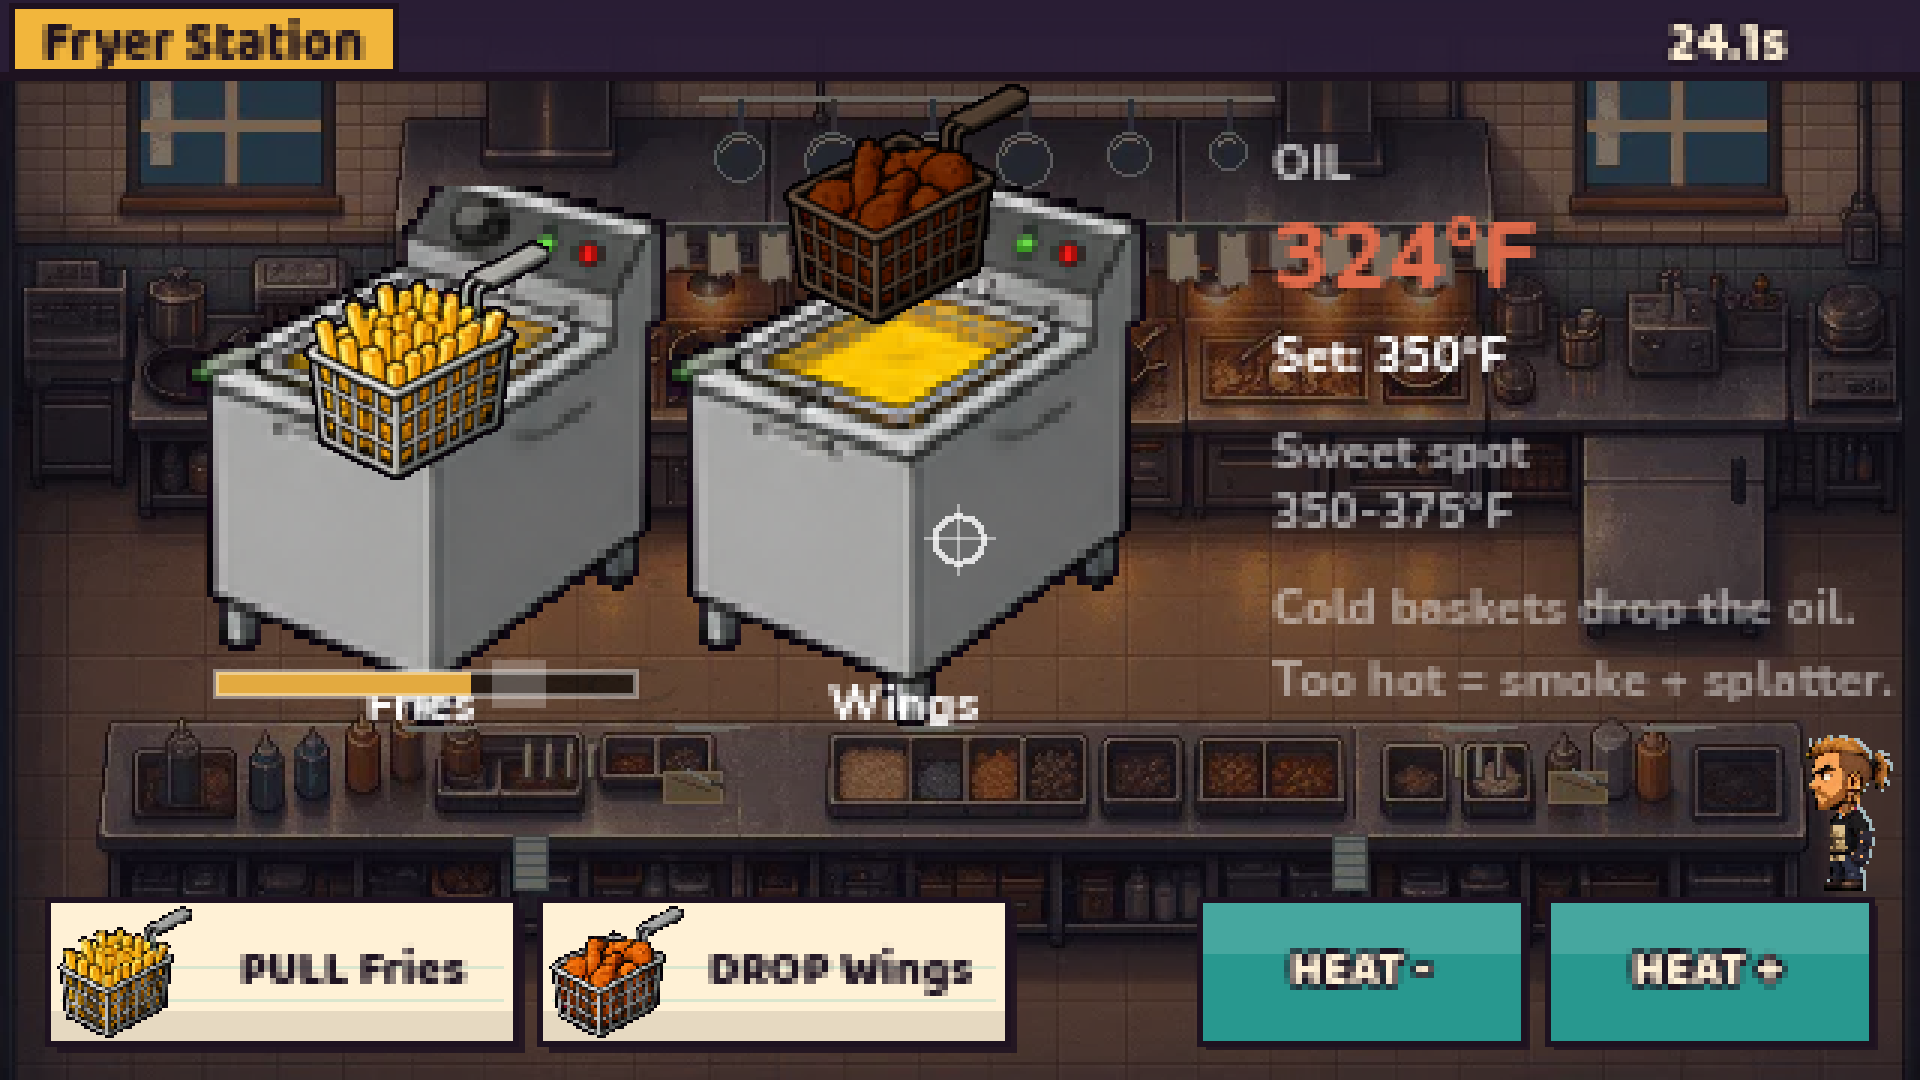
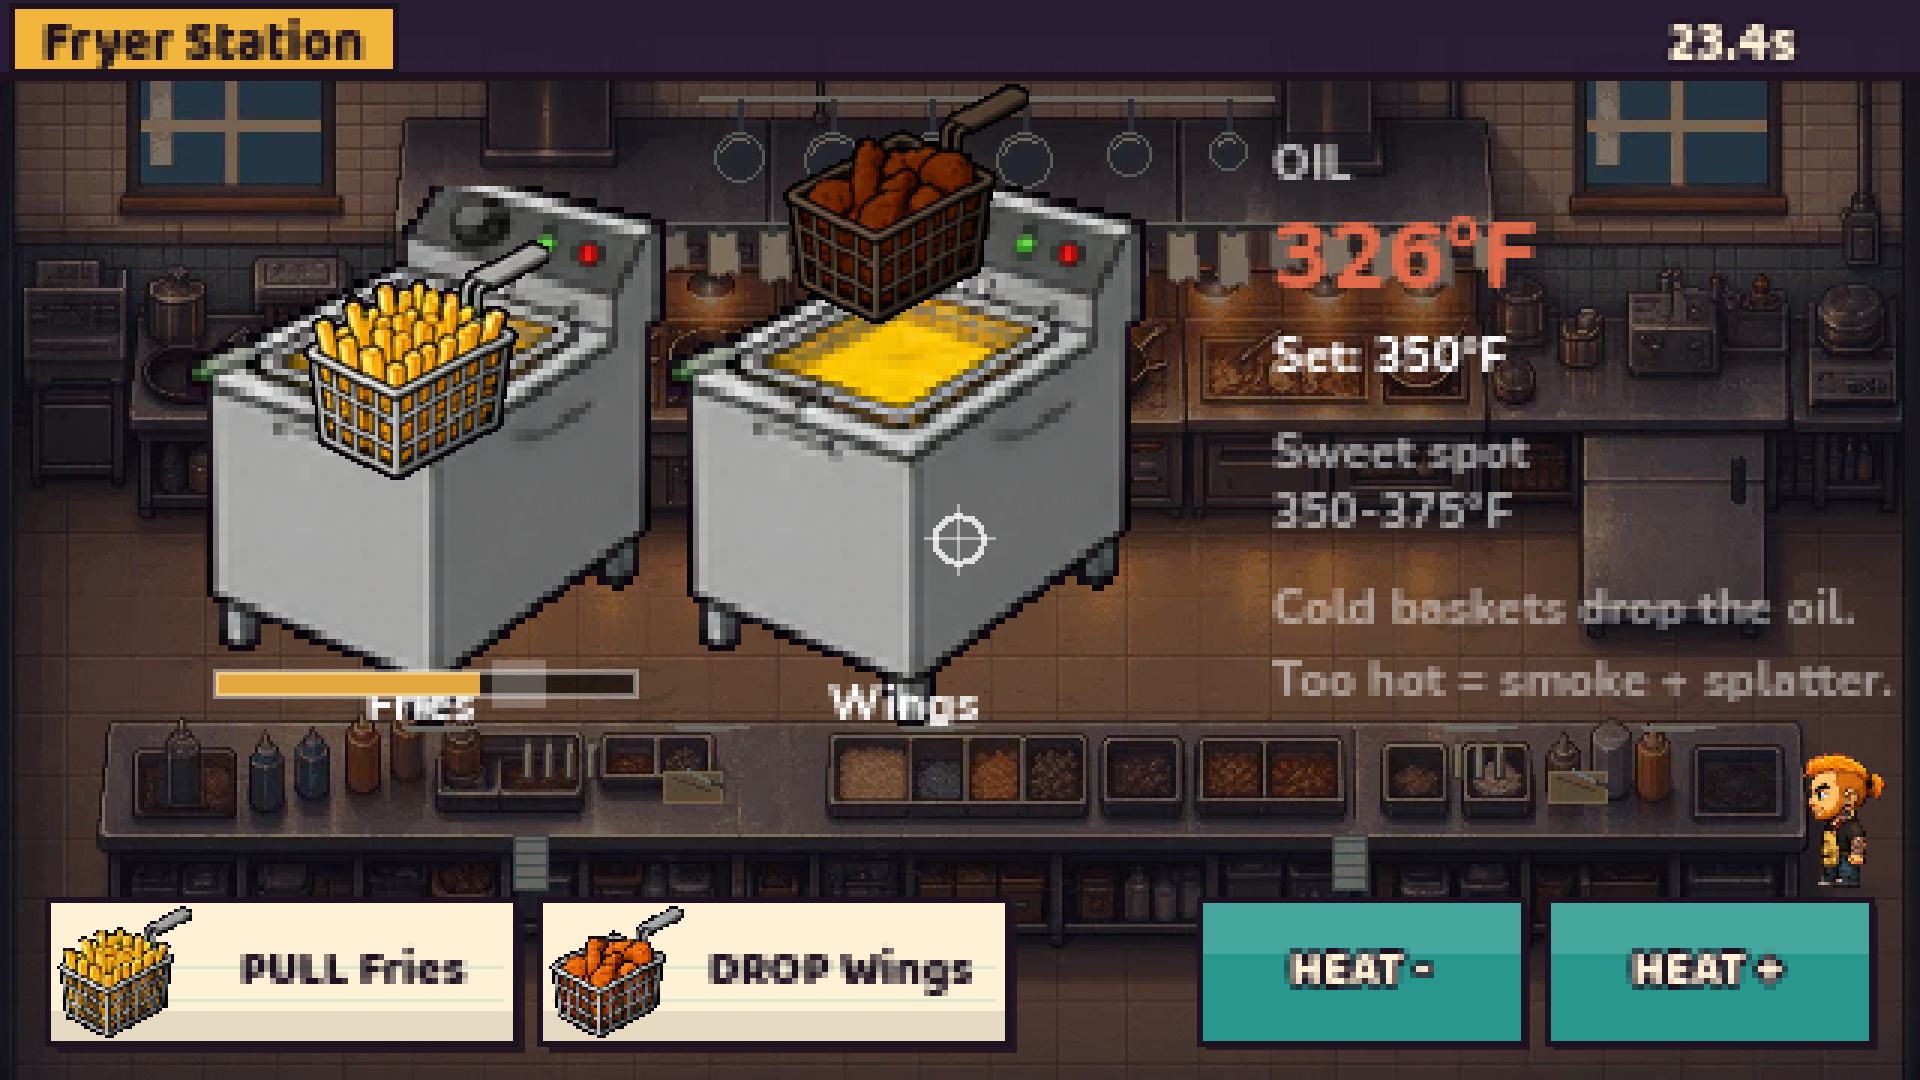
Ad kit refresh: HD Duff screens, itch copy for the public edition, portal review
- Screens 01, 08, 09 re-rendered on current main (HD Duff, new level panel spot)
- PAGE.md: public-edition note, 18 bosses, cold open + side quests, load line, tags (no pixel-art)
- PAGE_paste.txt: plain-text copy to paste from a phone
- LISTING.md: 18 bosses
- Keyboard boss fights: level panel sat on the boss bar's right end; it now sits above it
- docs/reviews/review_2026-11-14_portal_readiness.md

Claude-Session: https://claude.ai/code/session_01V3sbxMbLHiH7vLqaP49Jnr

Changed region(s): [[0.9375, 0.6722, 1.0, 0.825], [0.875, 0.0, 0.9375, 0.0611], [0.7188, 0.1833, 0.75, 0.275]]

diff --git a/docs/reviews/review_2026-11-14_portal_readiness.md b/docs/reviews/review_2026-11-14_portal_readiness.md
@@ -1,0 +1,78 @@
+# DuffQuest review, take four (Nov 14, 2026): portal readiness
+
+**Score: 8.3 / 10** (IGN v3 on Nov 11 was 7.9)
+
+How this was checked: current main (26aabed), `test_daily` ALL PASS, the ad shots re-rendered in the engine
+(town, street at night, fryer, home, gala), a scripted Gym Bro fight and a night walk recorded at 1080p with
+`tools/promo_shot`, and the copy read against the code. Nobody hand-played a 30-day run for this review; the 30-day
+soak covers that path.
+
+## What works
+
+- **The first ten seconds.** New game opens on a porch pirate jogging at Madison's package, and the line tells a
+  keyboard player "WASD or arrows to walk, Space to bonk". The rules come after the first win. On a portal, where a
+  player decides in under a minute, this is the most valuable change since v3.
+- **The street finally matches the fights.** v3's main complaint ("the street still looks like a board game") is
+  mostly gone: 13 storefronts and 17 street props painted at 4x, time-of-day light, painted fences. The Kwik-N-Go
+  corner at 10 AM and the same corner at 9:40 PM both read as one painted town.
+- **Duff looks like the cover now.** HD sheets, the casual tee off the line, the smug face. The in-game hero and the
+  cover portrait are finally the same guy.
+- **Boot.** Title in 9.3 s on throttled 4G (was 55 s two versions ago). New Game only waits for a 2.9 MB street pack.
+- **Depth for a free web game.** 18 bosses with their own arenas and comic-panel knockouts, four side quests with a
+  phone Notes journal, kitchen minigames, a 30-day calendar. Most portal games have one loop. This has five.
+- **The writing.** Still the reason to play. The humor audit cut 63 repeated jokes, which is the right direction.
+- **Portal plumbing.** Clean/gore-off defaults for portal players, fractional scaling that fills CrazyGames' iframe,
+  keyboard-first HUD placement, public-edition names everywhere, privacy policy, credits.
+
+## What's weak
+
+1. **The cast is half-migrated.** Duff is 2x HD; most of the people he talks to and fights are not. At the gala,
+   Lance (the landlord ex) is a chunky low-res sprite in a painted ballroom, standing in a screen we use for ads. Every
+   ad shot with an ex or a boss in it shows the seam. Finish the cast 2x pass for everyone in the ads (Gym Bro, the
+   four gala exes, the porch pirate) before paying for any promotion.
+2. **It's a slow game on a fast shelf.** CrazyGames players come for instant action. After the cold-open pirate, the
+   game is four lines of rules, then errands, a couch, a calendar. The fights are where the portal crowd lives, and
+   the next one is a few minutes away for a new player. Expect a steep drop after minute one. The fix is a second,
+   bigger fight inside the first five minutes (the porch-mystery thread or a street bounty pointed at day one).
+3. **Clean mode takes the edge off.** Portal players get clean language and no gore by default, and a lot of the
+   voice lives in the swearing and the teeth. The game is still funny clean, but it's a different, milder game. The
+   itch build keeps the uncut default; good.
+4. **The second wait.** Continue, the kitchen, arenas and the gala wait on world.pck (~23 s cold). On a portal the
+   first fight is covered by the street pack, but the first trip into the kitchen can hit a loading card mid-session.
+5. **No real-phone notes on file.** Duff and Brittany played it Nov 11 ("it's come a long way"), but their notes
+   aren't written down anywhere. They still outrank everything on this list.
+6. **AI art and itch.** itch's crowd is touchy about AI art. The disclosure is correct and required; don't tag it
+   `pixel-art`, and lead with the human story (one line cook, one phone, no computer) instead of the visuals.
+7. **No revenue path yet.** CrazyGames Basic Launch is a traffic test with no SDK; money starts at Full Launch with
+   the SDK and ads. GameDistribution waits on its gameId. itch is pay-what-you-want at best.
+
+## Bug found and fixed during this review
+
+- **Keyboard players: the level/heat panel covered the end of every boss's health bar.** The Nov 14 portal polish
+  tucked the panel into the bottom-right corner (`combat_ui.PANEL_R_KEYS`), which is where the boss bar ends. It
+  showed in the recorded Gym Bro take. During a boss fight the panel now sits just above the boss bar
+  (`PANEL_R_KEYS_BOSS`); touch layout unchanged.
+
+## What would most improve its chances
+
+1. **Write down Duff's and Brittany's playtest notes** and fix what they hit first.
+2. **Finish the 2x cast for everyone who appears in the ads**, then re-record the clips and the gala screen.
+3. **A second fight in the first five minutes**, so a portal player sees combat twice before the life-sim kicks in.
+4. **Submit to CrazyGames Basic Launch now** with the current zip; its numbers (time played, retention) tell you more
+   than any review. Add the SDK for Full Launch only if Basic Launch earns it.
+5. **Post the itch page** (`docs/itch/PAGE_paste.txt`) and lead socials with the true story: a line cook built a game
+   about his rent, his partner and his exes on his phone.
+
+## Ad kit check (Nov 14)
+
+| Asset | Status |
+|---|---|
+| Covers (`docs/portals/covers/`) | Current. HD portrait matches HD Duff. |
+| `knockout.gif`, `boss_intro.gif` | Stale: the walk-in and last hit show the old Duff sprite and the old floating level panel. Re-cut Nov 14. |
+| Preview clips (`docs/portals/preview/`) | Stale for the same reason. Re-recorded Nov 14. |
+| Screens 01, 08, 09 | Stale (old Duff, old level panel). Re-rendered Nov 14. |
+| Screens 04, 05, 06 | Current. |
+| Screen 07 (gala) | Matches the build today, but Lance is still the old low-res sprite. Re-render after the cast 2x batch. |
+| Screens 02, 03 | 1280x720 and older; 02 shows the old Duff. Drop them or replace with frames from the new fight take. |
+| `PAGE.md` copy | Fixed: said real names were approved for the itch page (itch now ships the public edition), 17 bosses (now 18), "first load 56 MB", and tagged `pixel-art`. Added the cold open and side quests. |
+| `LISTING.md` (CrazyGames) | Fixed the boss count. Otherwise current. |

diff --git a/docs/itch/PAGE.md b/docs/itch/PAGE.md
@@ -1,11 +1,14 @@
-# Duff Quest: itch page copy (Nov 9, 2026)
+# Duff Quest: itch page copy (updated Nov 14, 2026)
 
-Page: https://dufftkyosht.itch.io/duff-quest. Paste-ready. Real names are approved for public (Nov 9); get each real person's OK in writing before ads go out (docs/legal/RISK_AUDIT.md).
+Page: https://dufftkyosht.itch.io/duff-quest. Paste-ready. itch gets the public edition (Nov 13): The Busted Spatula, Mazikeen,
+Rex Tankton. Never put the family names (the real restaurant, coworkers, exes) on this page. Madison, Octavia and Duff
+are in both editions; get each real person's OK in writing before ads go out (docs/legal/RISK_AUDIT.md).
+Phone paste version (plain text, no tables): `docs/itch/PAGE_paste.txt`.
 Not entering the itch "2026 Jam" (it bans AI art). Images: `cover.png`, `logo_banner.png`, `icon_512.png`, `screens/`, `knockout.gif`, `boss_intro.gif`.
-Upload order (first image shows biggest): `knockout.gif`, `boss_intro.gif`, `screens/07_gala_landlord_ex.png`, `04_kitchen_sandwich_station.png`, `05_fridge_calendar.png`, `06_dialogue_madison.png`, `08_street_night.png`, then `01`, `09`, `02`, `03`. Screens are 1920x1080 engine renders (Nov 13), clean language, gore off.
+Upload order (first image shows biggest): `knockout.gif`, `boss_intro.gif`, `screens/07_gala_landlord_ex.png`, `04_kitchen_sandwich_station.png`, `05_fridge_calendar.png`, `06_dialogue_madison.png`, `08_street_night.png`, then `01`, `09`, `02`, `03`. Screens are 1920x1080 engine renders, clean language, gore off; 01, 08 and 09 re-rendered Nov 14 with HD Duff.
 
 ## Short description (itch "tagline")
-> Thirty days. One rent check. Seventeen people who need a spatula to the face.
+> Thirty days. One rent check. Eighteen people who need a spatula to the face.
 
 (alt: "Rent's due. Madison's watching. Punch the problem.")
 
@@ -21,7 +24,9 @@ They don't pay rent. You pay rent.
 
 Barely.
 
-Every morning the fridge calendar tells you what kind of day it is. Thirty days of November. Thirty chances to get it right. You'll get maybe twelve.
+Day one starts at 7 AM with a stranger in a hoodie jogging straight at Madison's package. You bonk him. That's the tutorial.
+
+Every morning after that, the fridge calendar tells you what kind of day it is. Thirty days of November. Thirty chances to get it right. You'll get maybe twelve.
 
 You can work the line. You can run Madison's errand before 8 PM. You can sell your plasma for gas money, which is a sentence you will say out loud and mean.
 
@@ -45,11 +50,12 @@ Hell of a girl, though.
 
 - **A real life, played as an RPG.** Rent on Monday. Payday Friday. A partner's mood bar that notices when you skip the couch. A college fund that laughs at you.
 - **Brawl the block.** Three-hit combos, dodge rolls, a charged special, and Demon Time. Spatula first. Questions never.
-- **17 bosses, 17 knockouts.** Burst intro cards, their own arenas, their own trash talk, and a comic-panel finisher with an x-ray of the bone you just broke.
+- **18 bosses, 18 knockouts.** Burst intro cards, their own arenas, their own trash talk, and a comic-panel finisher with an x-ray of the bone you just broke.
 - **The Gala.** Day 24. Four of Madison's exes and the man hosting them. Black tie. You brought the brown one.
 - **Work the line.** Fryer, sandwich builds, prep, a lineup quiz. S-rank a station and your hands remember it.
 - **The fridge calendar.** Thirty handwritten days. Sticky notes from Madison, the baby, and the cats. Thanksgiving at the Waffle Haus.
 - **Side hustles.** A $15 grocery run. The pharmacy. Plasma. A Waffle Haus night shift.
+- **Side quests.** Who keeps stealing the packages. A grease trap at the back door after 10 PM. A coworker's side gig you can cover for or rat out. A lost-and-found flyer. Tracked in the Notes app on Duff's phone.
 - **Plays on your phone.** Landscape, touch controls, saves in your browser. Keyboard works too.
 - **Toggles for the squeamish:** clean language, cartoon gore, screen shake, and Lite graphics for older phones.
 
@@ -70,7 +76,7 @@ Hell of a girl, though.
 | Settings / back | O or Esc | |
 | Skip a cutscene beat | Any key | Tap |
 
-Best in landscape: tap **Run game**, then fullscreen. First load is about 56 MB.
+Best in landscape: tap **Run game**, then fullscreen. The title loads in about 10 seconds on a phone; the rest of Omaha streams in while you play. On iPhone, the full-screen version is https://duffpowell-commits.github.io/duffquest/ (Safari > Share > Add to Home Screen).
 
 ## Content warning
 
@@ -104,6 +110,7 @@ the game: Settings > Credits & legal.
 ## itch settings checklist
 - Kind: HTML. "This file will be played in the browser" = **duff-quest-html.zip** ONLY (delete `duffquest-web.zip`).
 - Embed: 1280x720, Mobile friendly (landscape), Fullscreen button, Click to launch in fullscreen (optional).
-- Genre: Role Playing. Tags: comedy, beat-em-up, life-simulation, pixel-art, short, funny, godot, mobile, singleplayer.
+- Genre: Role Playing. Tags (10 max): comedy, beat-em-up, life-simulation, funny, story-rich, minigames, cooking, singleplayer, mobile, godot.
+  Not `pixel-art` (the art is AI-painted; that tag's crowd will report it) and not `short` (it's thirty in-game days).
 - AI disclosure: yes (itch "AI generation" field: graphics + code + text).
 - Content: blood (cartoon), violence, strong language.

diff --git a/docs/portals/LISTING.md b/docs/portals/LISTING.md
@@ -24,7 +24,7 @@ envelope arrives: the Gala, where every ex who "made it" is waiting in one ballr
 
 Fight with three-hit combos, dodge rolls and charged specials. Level up, gear up, and try to make rent.
 
-- 17 bosses with their own arenas and knockout finishers
+- 18 bosses with their own arenas and knockout finishers
 - Kitchen shifts, a grocery run, a Waffle Haus night shift and more side hustles
 - Side quests, a phone with texts and a notes journal, and a handwritten fridge calendar for all 30 days
 - Plays with keyboard, mouse or touch; your progress saves in the browser
